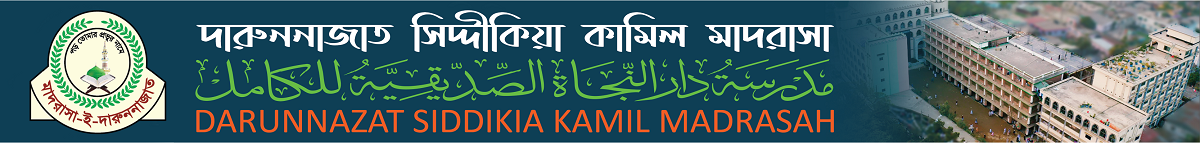
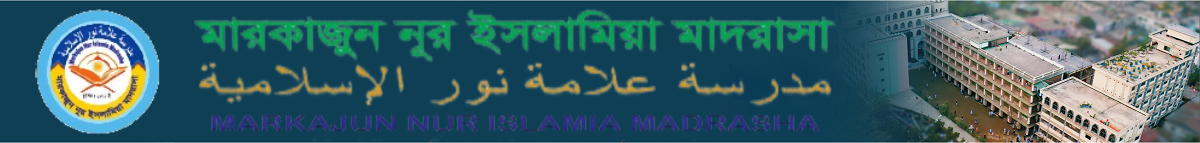
info updated

Changed region(s): [[0.0, 0.0559, 0.7092, 0.951]]

diff --git a/footer.html b/footer.html
@@ -8,20 +8,28 @@
           <img class="mt-5 mb-20" alt="" src="assets/images/android-icon-96x96.png">
           <!--<img class="mt-5 mb-20" alt="" src="" alt="institute logo" style="height: 110px;width: 110px;">-->
 
-          <p>পূর্ব বক্সনগর, সারুলিয়া, ডেমরা, ঢাকা - ১৩৬১ ।</p>
+          <p>মধ্যেরচর, কেরানীগঞ্জ, ঢাকা </p>
           <ul class="list-inline mt-5 footer-mt-5">
+
             <li class="m-0 pl-10 pr-10"> <i class="fa fa-phone text-theme-color-2 mr-5"></i> <a class="text-white"
-                href="#">০১৩০৯১০৭৯০৬(অধ্যক্ষ), ০১৮১৬১০১৪০০(উপাধ্যক্ষ), ০১৭১২৫৫৭৬২০(উপাধ্যক্ষ-২), ৭৫০০১৭১</a> </li><br>
+                href="#">০১৭২৭-৮৭৩৫৬৭</a> </li>
+
+                <!-- <br>
             <li class="m-0 pl-10 pr-10"> <i class="fa fa-phone text-theme-color-2 mr-5"></i> <a class="text-white"
                 href="#">০১৯১৪৩৮৭৯১৩(মুহাদ্দীস),০১৭১২৫১৮১৮৭(হল সুপার), ০১৯১৬৬০৪২২৫(অফিস),০১৯২৫৭৪৫৩৯৬(বোডিং অফিস)</a>
-            </li><br>
+            </li> -->
+
+            <!-- <br>
+
             <li class="m-0 pl-10 pr-10"> <i class="fa fa-envelope-o text-theme-color-2 mr-5"></i> <a class="text-white"
                 href="#"><span class="__cf_email__"
                   data-cfemail="bedadfcccbd0d0dfc4dfca878efed9d3dfd7d290ddd1d3">[email&#160;protected]</span></a>
-            </li>
+            </li> -->
+
             <br>
+
             <li class="m-0 pl-10 pr-10"> <i class="fa fa-globe text-theme-color-2 mr-5"></i> <a class="text-white"
-                href="#">http://dskm.ac.bd/</a> </li>
+                href="#">https://markajunnurislamiamadrasha.com/</a> </li>
           </ul>
         </div>
       </div>
@@ -45,8 +53,7 @@
             <li><a class="text-white" href="https://www.teachers.gov.bd/" target="_blank"><i
                   class="fa fa-paperclip"></i> শিক্ষক বাতায়ন </a></li>
 
-            <li><a class="text-white" href="https://dpsabd.com/" target="_blank"><i class="fa fa-paperclip"></i>
-                দারুননাজাত প্রাক্তন ছাত্র এসোসিয়েশন </a></li>
+           
           </ul>
         </div>
       </div>
@@ -67,14 +74,14 @@
               }(document, 'script', 'facebook-jssdk'));
             </script>
 
-            <div class="fb-page" data-href="https://www.facebook.com/darunnazat1990" data-tabs="timeline"
+            <!-- <div class="fb-page" data-href="https://www.facebook.com/darunnazat1990" data-tabs="timeline"
               data-width="280" data-height="260" data-small-header="false" data-adapt-container-width="false"
               data-hide-cover="false" data-show-facepile="true">
               <blockquote cite="https://www.facebook.com/darunnazat1990" class="fb-xfbml-parse-ignore">
-                <a href="https://www.facebook.com/darunnazat1990">Darunnzat Siddikia Kamil
-                  Madrasah</a>
+                <a href="https://www.facebook.com/darunnazat1990">
+                  Markajun Nur Islamia Madrasha</a>
               </blockquote>
-            </div>
+            </div> -->
           </div>
         </div>
       </div>
@@ -85,23 +92,19 @@
       <div class="row footer-last">
         <div class="col-xs-12 col-sm-12 col-md-6 col-lg-6">
           <div class="widget no-border">
-            <p class="font-12 text-black-f2 footer-text"> Copyright @ 2015, Darunnzat
-              Siddikia Kamil
-              Madrasah. All Rights Reserved</p>
+            <p class="font-12 text-black-f2 footer-text"> Copyright @ 2015, Markajun Nur Islamia Madrasha. All Rights Reserved</p>
           </div>
         </div>
         <div class="col-xs-12 col-sm-12 col-md-3 col-lg-3">
           <div class="widget no-border">
             <p class="font-12 text-black-f2 footer-text">Technical
-              Support: <a href="http://cyberdynetechnologyltd.com/" target="_blank" style="color: #b50431;"> Cyberdyne
-                Technology
-                Ltd.</a></p>
+              Support: <a href="https://quantumedgesoftware.com/" target="_blank" style="color: orangered;"> Quantumedge Software Inc.</a></p>
           </div>
         </div>
         <div class="col-xs-12 col-sm-12 col-md-3 col-lg-3 text-right">
           <div class="widget dark text-white">
             <ul class="styled-icons icon-bordered icon-sm">
-              <li><a class="facebook" href="https://www.facebook.com/darunnazat1990" target="_blank"><i
+              <li><a class="facebook" href="" target="_blank"><i
                     class="fa fa-facebook text-white" style="color: #4267B2 !important;"></i></a></li>
               <li><a class="twitter" href="" target="_blank"><i class="fa fa-twitter text-white"
                     style="color: #5CD5FC !important;"></i></a></li>

diff --git a/pages/about-us.html b/pages/about-us.html
@@ -26,7 +26,7 @@
 
 
   <!-- Page Title -->
-  <title style="font-family: SolaimanLipi;">দারুননাজাত সিদ্দীকিয়া কামিল মাদরাসা</title>
+  <title style="font-family: SolaimanLipi;">মারকাজুন নূর ইসলামিয়া মাদরাসা</title>
   <!-- Favicon and Touch Icons -->
   <link rel="apple-touch-icon" sizes="57x57" href="../assets/images/apple-icon-57x57.png">
   <link rel="apple-touch-icon" sizes="60x60" href="../assets/images/apple-icon-60x60.png">
@@ -144,7 +144,7 @@
                                         </div>
 
                                         <div class="col-xs-12 col-sm-12 col-md-12">
-                                            <h3 style="font-weight: bold;">নাম : দারুননাজাত সিদ্দীকিয়া কামিল মাদরাসা
+                                            <h3 style="font-weight: bold;">নাম : মারকাজুন নূর ইসলামিয়া মাদরাসা
                                             </h3>
                                             <p></p>
                                             <p class="we_font"><strong>E-mail:</strong> <a
@@ -260,7 +260,7 @@
                                                 মেট্রোপলিটন এলাকার ডেমরা থানাধীন ডি. এন. ডি. প্রজেক্টের ভিতরে
                                                 সারুলিয়া বাজার ও ঢাকা-চট্টগ্রাম মহাসড়কের মধ্যবর্তী স্থানে শুকুরসী
                                                 গোরস্থান সংলগ্ন প্রায় তিন একর জমির ওপর নৈসর্গিক মনোরম পরিবেশে
-                                                দারুননাজাত সিদ্দীকিয়া কামিল মাদরাসার অবস্থান।</p>
+                                                মারকাজুন নূর ইসলামিয়া মাদরাসার অবস্থান।</p>
                                             <p style="text-align: justify;">১৯৮৮ সালে করিম জুট মিলস লি. এর পেশ ইমাম
                                                 আলহাজ্ব মাওলানা রুহুল আমীন সাহেবের নেতৃত্বে এলাকার ১৮ জন বিশিষ্ট
                                                 ব্যক্তি হজ্বব্রত পালনের জন্য মক্কা শরীফ গমন করেন এবং হজ্বব্রত পালন
@@ -270,7 +270,7 @@
                                                 সেপ্টেম্বর মাসে ফুরফুরার মুজাদ্দিদে জামান হযরত মাওলানা আবু বকর
                                                 সিদ্দীকি আল কুরাইশী রহ. এর নাতী পীরে কামেল আলহাজ্ব মাওলানা আবুল
                                                 আনসার মুহাম্মাদ আব্দুল কাহ্হার সিদ্দীকি রহ. মুজাদ্দিদে জামানের নামের
-                                                সাথে মিলিয়ে নামকরণ করে দারুননাজাত সিদ্দীকিয়া কামিল মাদরাসার
+                                                সাথে মিলিয়ে নামকরণ করে মারকাজুন নূর ইসলামিয়া মাদরাসার
                                                 ভিত্তিপ্রস্তর স্থাপন করেন। সেই থেকে শুরু হয় এ মাদরাসার অবিরাম পথ
                                                 চলা।</p>
                                             <hr>

diff --git a/index.html b/index.html
@@ -26,7 +26,7 @@
 
 
   <!-- Page Title -->
-  <title style="font-family: SolaimanLipi;">দারুননাজাত সিদ্দীকিয়া কামিল মাদরাসা</title>
+  <title style="font-family: SolaimanLipi;">মারকাজুন নূর ইসলামিয়া মাদরাসা</title>
   <!-- Favicon and Touch Icons -->
   <link rel="apple-touch-icon" sizes="57x57" href="assets/images/apple-icon-57x57.png">
   <link rel="apple-touch-icon" sizes="60x60" href="assets/images/apple-icon-60x60.png">
@@ -203,13 +203,13 @@
                     style="background-color: #DBECFD; padding-left: 0px; padding-right: 10px; font-family: SolaimanLipi !important;text-align: justify !important;">
                     <h2 class="title font-38 text-theme-colored mt-30 mb-20"
                       style=" font-family: SolaimanLipi !important;text-shadow: -1px -1px 2px #f4ecec, 1px -1px 2px #f4ecec, -1px 1px 2px #c3bdbd, 1px 1px 10px #f4ecec;">
-                      দারুননাজাত সিদ্দীকিয়া কামিল মাদরাসায় আপনাকে স্বাগতম </h2>
+                      মারকাজুন নূর ইসলামিয়া মাদরাসায় আপনাকে স্বাগতম </h2>
 
                     <p class="mb-20" style="text-align: justify !important; font-family: SolaimanLipi !important;">
                     <p><br />
                       ঢাকা দক্ষিণ&nbsp;সিটি কর্পোরেশনের ৬৭&nbsp;নং ওয়ার্ডের শুকুরসি গোরস্থান সংলগ্ন ডেমরা-নারায়ণগঞ্জ
                       রোডের পশ্চিম পাশে, ডি.এন্ড.ডি. প্রজেক্টের মধ্যে ছায়া ঢাকা পাখি ডাকা মনোরম পরিবেশে অবস্থিত দেশের
-                      অন্যতম শ্রেষ্ঠ ইসলামী শিক্ষা প্রতিষ্ঠান ঐতিহ্যবাহী দারুননাজাত সিদ্দীকিয়া কামিল মাদরাসা। স্থানীয়
+                      অন্যতম শ্রেষ্ঠ ইসলামী শিক্ষা প্রতিষ্ঠান ঐতিহ্যবাহী মারকাজুন নূর ইসলামিয়া মাদরাসা। স্থানীয়
                       কয়েক গ্রামবাসীর যৌথ উদ্যোগে ভারত বিভাগের এক বছর পূর্বে ১৯৪৬ ঈসায়ী সালে প্রতিষ্ঠিত হয়েছিল শুকুরসি
                       গোরস্থান।</p>
 

diff --git a/pages/hostel-introduction.html b/pages/hostel-introduction.html
@@ -26,7 +26,7 @@
 
 
     <!-- Page Title -->
-    <title style="font-family: SolaimanLipi;">দারুননাজাত সিদ্দীকিয়া কামিল মাদরাসা</title>
+    <title style="font-family: SolaimanLipi;">মারকাজুন নূর ইসলামিয়া মাদরাসা</title>
     <!-- Favicon and Touch Icons -->
     <link rel="apple-touch-icon" sizes="57x57" href="../assets/images/apple-icon-57x57.png">
     <link rel="apple-touch-icon" sizes="60x60" href="../assets/images/apple-icon-60x60.png">
@@ -144,7 +144,7 @@
                                             <h4 class="widget-title title-dots"><span>ছাত্রাবাস পরিচিতি</span></h4>
                                         </div>
                                         <div class="col-xs-12 col-sm-12 col-md-12">
-                                            <p style="text-align: justify;">দারুননাজাত সিদ্দীকিয়া কামিল মাদরাসা মূলত
+                                            <p style="text-align: justify;">মারকাজুন নূর ইসলামিয়া মাদরাসা মূলত
                                                 একটি আবাসিক শিক্ষা প্রতিষ্ঠান। আবাসিক ছাত্রদের জন্য রয়েছে বেশ কয়েকটি হল।
                                                 প্রতিটি হল এক একটি এলাকা হিসেবে পরিচালিত। প্রতি এলাকা মাদরাসার দুজন
                                                 শিক্ষক পরিচালকের সার্বিক তদারকিতে পরিচালিত। সব হল বা এলাকার সার্বিক

diff --git a/pages/addmission-time.html b/pages/addmission-time.html
@@ -26,7 +26,7 @@
 
 
     <!-- Page Title -->
-    <title style="font-family: SolaimanLipi;">দারুননাজাত সিদ্দীকিয়া কামিল মাদরাসা</title>
+    <title style="font-family: SolaimanLipi;">মারকাজুন নূর ইসলামিয়া মাদরাসা</title>
     <!-- Favicon and Touch Icons -->
     <link rel="apple-touch-icon" sizes="57x57" href="../assets/images/apple-icon-57x57.png">
     <link rel="apple-touch-icon" sizes="60x60" href="../assets/images/apple-icon-60x60.png">
@@ -170,7 +170,7 @@
                                             <h4 class="widget-title title-dots"><span>তাখসীসি শাখা:</span></h4>
                                         </div>
                                         <div class="col-xs-12 col-sm-12 col-md-12">
-                                            <p style="text-align: justify;">দারুননাজাত সিদ্দীকিয়া কামিল মাদরাসার বিশেষ
+                                            <p style="text-align: justify;">মারকাজুন নূর ইসলামিয়া মাদরাসার বিশেষ
                                                 বিভাগ তাখসীসি শাখা নামে পরিচিত। এ শাখায় ভর্তির সময় নিম্নরূপ:
 
                                                 ক. প্রাক তাখসীসি: শর্টকোর্সের মাধ্যমে ১ বছরে অষ্টম শ্রেণির উপযোগী করে

diff --git a/pages/principal-statement.html b/pages/principal-statement.html
@@ -26,7 +26,7 @@
 
 
     <!-- Page Title -->
-    <title style="font-family: SolaimanLipi;">দারুননাজাত সিদ্দীকিয়া কামিল মাদরাসা</title>
+    <title style="font-family: SolaimanLipi;">মারকাজুন নূর ইসলামিয়া মাদরাসা</title>
     <!-- Favicon and Touch Icons -->
     <link rel="apple-touch-icon" sizes="57x57" href="../assets/images/apple-icon-57x57.png">
     <link rel="apple-touch-icon" sizes="60x60" href="../assets/images/apple-icon-60x60.png">
@@ -246,7 +246,7 @@
                                                     </p>
                                                     <p style="text-align: justify;">তাঁর দুটি পুত্র সন্তান রয়েছে।
                                                         তার বড় ছেলের নাম তানভীর আহমদ এবং ছোট ছেলের নাম তাওকীর আহমদ।
-                                                        দু’ সন্তানই দারুননাজাত সিদ্দীকিয়া কামিল মাদরাসায় অধ্যয়নরত
+                                                        দু’ সন্তানই মারকাজুন নূর ইসলামিয়া মাদরাসায় অধ্যয়নরত
                                                         আছেন।
 
                                                     </p>

diff --git a/side-bar.html b/side-bar.html
@@ -40,17 +40,17 @@
 
         <div class="widget">
             <div class="rs-image">
-                <img src="assets/teacher_images/1698126427.jpg" alt="principal image">
+                <img src="assets/teacher_images/mufti-monir-hossain.jpg" alt="principal image">
                 <!--<img src="images/team/images.png" alt="principal image">-->
                 <!--<h5 class="widget-title title-dots small" style="margin-top: 10px;"><span></span></h5>-->
 
             </div>
             <h5 class="widget-title" style="margin-top: 5px; margin-bottom: 5px; font-weight: bold; font-size: 21px;">
-                <span>অধ্যক্ষ</span>
+                <span>প্রতিষ্ঠাতা</span>
             </h5>
             <h6 style="margin-top: 5px; margin-bottom: 5px; font-weight: bold; font-size: 19px;">
-                আবুল খায়ের মুহাম্মদ আবু বকর সিদ্দীক</h6>
-            <p style="font-size: 17px;">বি.এ. (অনার্স), এম.এ. (ঢাকা বিশ্ববিদ্যালয়); এম.এম. (১ম শ্রেণি)</p>
+                মোঃ মুনির হুসাইন</h6>
+            <!-- <p style="font-size: 17px;">বি.এ. (অনার্স), এম.এ. (ঢাকা বিশ্ববিদ্যালয়); এম.এম. (১ম শ্রেণি)</p> -->
         </div>
 
 

diff --git a/pages/governing-body.html b/pages/governing-body.html
@@ -26,7 +26,7 @@
 
 
     <!-- Page Title -->
-    <title style="font-family: SolaimanLipi;">দারুননাজাত সিদ্দীকিয়া কামিল মাদরাসা</title>
+    <title style="font-family: SolaimanLipi;">মারকাজুন নূর ইসলামিয়া মাদরাসা</title>
     <!-- Favicon and Touch Icons -->
     <link rel="apple-touch-icon" sizes="57x57" href="../assets/images/apple-icon-57x57.png">
     <link rel="apple-touch-icon" sizes="60x60" href="../assets/images/apple-icon-60x60.png">
@@ -247,7 +247,7 @@
                                                         <th scope="row">14</th>
                                                         <td>আ.খ.ম. আবুবকর সিদ্দীক <br>
                                                             অধ্যক্ষ <br>
-                                                            দারুননাজাত সিদ্দীকিয়া কামিল মাদরাসা</td>
+                                                            মারকাজুন নূর ইসলামিয়া মাদরাসা</td>
                                                         <td>সদস্য-সচিব</td>
                                                         <td>7500171 <br> 01712891493</td>
                                                     </tr>

diff --git a/pages/admission-procedure.html b/pages/admission-procedure.html
@@ -26,7 +26,7 @@
 
 
     <!-- Page Title -->
-    <title style="font-family: SolaimanLipi;">দারুননাজাত সিদ্দীকিয়া কামিল মাদরাসা</title>
+    <title style="font-family: SolaimanLipi;">মারকাজুন নূর ইসলামিয়া মাদরাসা</title>
     <!-- Favicon and Touch Icons -->
     <link rel="apple-touch-icon" sizes="57x57" href="../assets/images/apple-icon-57x57.png">
     <link rel="apple-touch-icon" sizes="60x60" href="../assets/images/apple-icon-60x60.png">

diff --git a/pages/contact-us.html b/pages/contact-us.html
@@ -26,7 +26,7 @@
 
 
     <!-- Page Title -->
-    <title style="font-family: SolaimanLipi;">দারুননাজাত সিদ্দীকিয়া কামিল মাদরাসা</title>
+    <title style="font-family: SolaimanLipi;">মারকাজুন নূর ইসলামিয়া মাদরাসা</title>
     <!-- Favicon and Touch Icons -->
     <link rel="apple-touch-icon" sizes="57x57" href="../assets/images/apple-icon-57x57.png">
     <link rel="apple-touch-icon" sizes="60x60" href="../assets/images/apple-icon-60x60.png">

diff --git a/pages/curriculum.html b/pages/curriculum.html
@@ -26,7 +26,7 @@
 
 
     <!-- Page Title -->
-    <title style="font-family: SolaimanLipi;">দারুননাজাত সিদ্দীকিয়া কামিল মাদরাসা</title>
+    <title style="font-family: SolaimanLipi;">মারকাজুন নূর ইসলামিয়া মাদরাসা</title>
     <!-- Favicon and Touch Icons -->
     <link rel="apple-touch-icon" sizes="57x57" href="../assets/images/apple-icon-57x57.png">
     <link rel="apple-touch-icon" sizes="60x60" href="../assets/images/apple-icon-60x60.png">

diff --git a/pages/education-levels.html b/pages/education-levels.html
@@ -26,7 +26,7 @@
 
 
     <!-- Page Title -->
-    <title style="font-family: SolaimanLipi;">দারুননাজাত সিদ্দীকিয়া কামিল মাদরাসা</title>
+    <title style="font-family: SolaimanLipi;">মারকাজুন নূর ইসলামিয়া মাদরাসা</title>
     <!-- Favicon and Touch Icons -->
     <link rel="apple-touch-icon" sizes="57x57" href="../assets/images/apple-icon-57x57.png">
     <link rel="apple-touch-icon" sizes="60x60" href="../assets/images/apple-icon-60x60.png">
